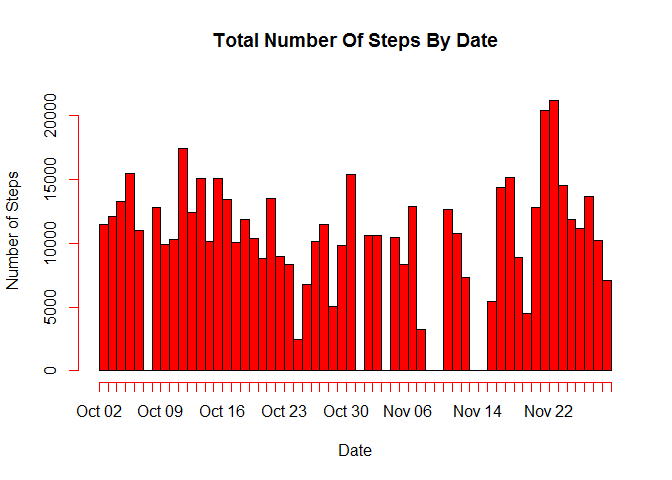
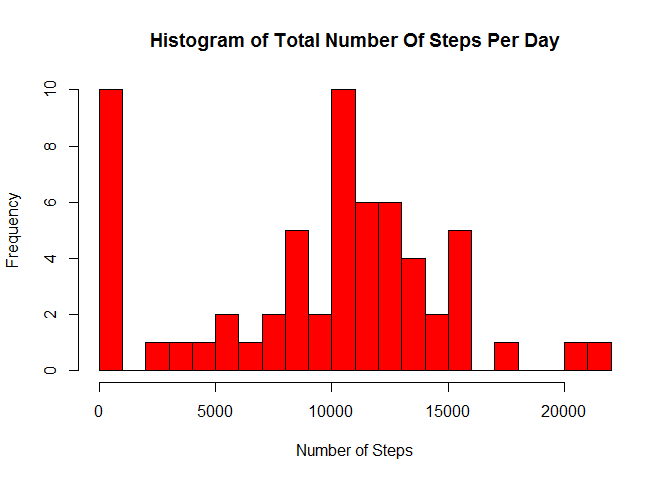
Peer Assessment #1

diff --git a/PA1_template.html b/PA1_template.html
@@ -145,16 +145,13 @@ dtStepsByDate</code></pre>
 ## 61: 2012-11-30          0
 ##           date totalSteps</code></pre>
 <p>The total steps by date data presented as a histogram:</p>
-<pre class="r"><code>yRange &lt;- c(0, 1000 * (floor(max(dtStepsByDate$totalSteps) / 1000) + 1))
-hist(x = rep(dtStepsByDate$date, dtStepsByDate$totalSteps),
-        breaks = &quot;days&quot;,
-        freq = TRUE,
+<pre class="r"><code>hist(x = dtStepsByDate$totalSteps,
         col = &quot;red&quot;,
-        ylim = yRange,
-        main = &quot;Total Number Of Steps By Date&quot;,
-        xlab = &quot;Date&quot;,
-        ylab = &quot;Number of Steps&quot;)</code></pre>
[1 lines of base64/hex data omitted]
+        breaks = 20,
+        main = &quot;Histogram of Total Number Of Steps Per Day&quot;,
+        xlab = &quot;Number of Steps&quot;,
+        ylab = &quot;Frequency&quot;)</code></pre>
[1 lines of base64/hex data omitted]
 <pre class="r"><code>meanSteps &lt;- mean(dtStepsByDate$totalSteps, na.rm = TRUE)
 medianSteps &lt;- median(dtStepsByDate$totalSteps, na.rm = TRUE)</code></pre>
 <p>The mean number of steps is 9354.2295082. The median number of steps is 1.039510^{4}.</p>
@@ -220,33 +217,34 @@ medianEstimatedSteps &lt;- median(dtEstimatedStepsByDate$totalEstimatedSteps, na
 </div>
 <div id="are-there-differences-in-activity-patterns-between-weekdays-and-weekends" class="section level2">
 <h2>Are there differences in activity patterns between weekdays and weekends?</h2>
-<p>I was not able to complete this section in time. Here is the in-process code to complete later.</p>
-<pre class="r"><code>#dtActivity &lt;- cbind(dtActivity, data.table(&quot;DayOfWeek&quot; = weekdays(dtActivity$date)))
-#dtActivity &lt;- cbind(dtActivity, data.table(&quot;TypeOfDay&quot; = character(nrow(dtActivity))))
+<p>We summarize the mean steps by type of day and interval into a new data table named dtStepsByTypeOfDayAndInterval.</p>
+<pre class="r"><code>dtActivity &lt;- cbind(dtActivity, data.table(&quot;DayOfWeek&quot; = weekdays(dtActivity$date)))
+dtActivity &lt;- cbind(dtActivity, data.table(&quot;TypeOfDay&quot; = character(nrow(dtActivity))))
 
-#for (row in 1:nrow(dtActivity))
-#{
-#   dtActivity[row]$TypeOfDay &lt;- switch(dtActivity[row]$DayOfWeek,
-#                                       Monday = &quot;Weekday&quot;,
-#                                       Tuesday = &quot;Weekday&quot;,
-#                                       Wednesday = &quot;Weekday&quot;,
-#                                       Thursday = &quot;Weekday&quot;,
-#                                       Friday = &quot;Weekday&quot;,
-#                                       Saturday = &quot;Weekend&quot;,
-#                                       Sunday = &quot;Weekend&quot;)
-#}
+for (row in 1:nrow(dtActivity))
+{
+    dtActivity[row]$TypeOfDay &lt;- switch(dtActivity[row]$DayOfWeek,
+                                        Monday = &quot;Weekday&quot;,
+                                        Tuesday = &quot;Weekday&quot;,
+                                        Wednesday = &quot;Weekday&quot;,
+                                        Thursday = &quot;Weekday&quot;,
+                                        Friday = &quot;Weekday&quot;,
+                                        Saturday = &quot;Weekend&quot;,
+                                        Sunday = &quot;Weekend&quot;)
+}
 
-#dtStepsByTypeOfDayAndInterval &lt;- dtActivity[, mean(steps, na.rm = TRUE), by = TypeOfDay]
-#setnames(dtStepsByTypeOfDayAndInterval, &quot;V1&quot;, &quot;meanSteps&quot;)
-#dtStepsByInterval
-#yRange &lt;- c(0, 20 * (floor(max(dtStepsByInterval$meanSteps) / 20) + 1))
-#plot(dtStepsByInterval,
-#       type = &quot;l&quot;,
-#       col = &quot;black&quot;,
-#       ylim = yRange,
-#       main = &quot;Mean Number Of Steps By Interval&quot;,
-#       xlab = &quot;Interval&quot;,
-#       ylab = &quot;Mean Number of Steps&quot;)</code></pre>
+dtStepsByTypeOfDayAndInterval &lt;- dtActivity[, mean(steps, na.rm = TRUE), by = c(&quot;TypeOfDay&quot;, &quot;interval&quot;)]
+setnames(dtStepsByTypeOfDayAndInterval, &quot;V1&quot;, &quot;meanSteps&quot;)</code></pre>
+<p>The mean steps by interval data presented as a time-series plot:</p>
+<pre class="r"><code>library(lattice)
+xyplot(meanSteps ~ interval | TypeOfDay,
+        data = dtStepsByTypeOfDayAndInterval,
+        type = &quot;l&quot;,
+        main = &quot;Mean Number Of Steps By Type Of Day And Interval&quot;,
+        xlab = &quot;Interval&quot;,
+        ylab = &quot;Mean Number of Steps&quot;,
+        layout = c(2, 1))</code></pre>
[1 lines of base64/hex data omitted]
 </div>
 
 

diff --git a/PA1_template.md b/PA1_template.md
@@ -102,15 +102,12 @@ The total steps by date data presented as a histogram:
 
 
 ```r
-yRange <- c(0, 1000 * (floor(max(dtStepsByDate$totalSteps) / 1000) + 1))
-hist(x = rep(dtStepsByDate$date, dtStepsByDate$totalSteps),
-		breaks = "days",
-		freq = TRUE,
+hist(x = dtStepsByDate$totalSteps,
 		col = "red",
-		ylim = yRange,
-		main = "Total Number Of Steps By Date",
-		xlab = "Date",
-		ylab = "Number of Steps")
+		breaks = 20,
+		main = "Histogram of Total Number Of Steps Per Day",
+		xlab = "Number of Steps",
+		ylab = "Frequency")
 ```
 
 ![](PA1_template_files/figure-html/summaryDateHistogram-1.png) 
@@ -239,33 +236,43 @@ The median number of steps with the missing values estimated is 1.0766189\times 
 
 ## Are there differences in activity patterns between weekdays and weekends?
 
-I was not able to complete this section in time.  Here is the in-process code to complete later.
+We summarize the mean steps by type of day and interval into a new data table
+named dtStepsByTypeOfDayAndInterval.
+
 
 ```r
-#dtActivity <- cbind(dtActivity, data.table("DayOfWeek" = weekdays(dtActivity$date)))
-#dtActivity <- cbind(dtActivity, data.table("TypeOfDay" = character(nrow(dtActivity))))
+dtActivity <- cbind(dtActivity, data.table("DayOfWeek" = weekdays(dtActivity$date)))
+dtActivity <- cbind(dtActivity, data.table("TypeOfDay" = character(nrow(dtActivity))))
 
-#for (row in 1:nrow(dtActivity))
-#{
-#	dtActivity[row]$TypeOfDay <- switch(dtActivity[row]$DayOfWeek,
-#										Monday = "Weekday",
-#										Tuesday = "Weekday",
-#										Wednesday = "Weekday",
-#										Thursday = "Weekday",
-#										Friday = "Weekday",
-#										Saturday = "Weekend",
-#										Sunday = "Weekend")
-#}
+for (row in 1:nrow(dtActivity))
+{
+	dtActivity[row]$TypeOfDay <- switch(dtActivity[row]$DayOfWeek,
+										Monday = "Weekday",
+										Tuesday = "Weekday",
+										Wednesday = "Weekday",
+										Thursday = "Weekday",
+										Friday = "Weekday",
+										Saturday = "Weekend",
+										Sunday = "Weekend")
+}
 
-#dtStepsByTypeOfDayAndInterval <- dtActivity[, mean(steps, na.rm = TRUE), by = TypeOfDay]
-#setnames(dtStepsByTypeOfDayAndInterval, "V1", "meanSteps")
-#dtStepsByInterval
-#yRange <- c(0, 20 * (floor(max(dtStepsByInterval$meanSteps) / 20) + 1))
-#plot(dtStepsByInterval,
-#		type = "l",
-#		col = "black",
-#		ylim = yRange,
-#		main = "Mean Number Of Steps By Interval",
-#		xlab = "Interval",
-#		ylab = "Mean Number of Steps")
+dtStepsByTypeOfDayAndInterval <- dtActivity[, mean(steps, na.rm = TRUE), by = c("TypeOfDay", "interval")]
+setnames(dtStepsByTypeOfDayAndInterval, "V1", "meanSteps")
 ```
+
+
+The mean steps by interval data presented as a time-series plot:
+
+
+```r
+library(lattice)
+xyplot(meanSteps ~ interval | TypeOfDay,
+		data = dtStepsByTypeOfDayAndInterval,
+		type = "l",
+		main = "Mean Number Of Steps By Type Of Day And Interval",
+		xlab = "Interval",
+		ylab = "Mean Number of Steps",
+		layout = c(2, 1))
+```
+
+![](PA1_template_files/figure-html/summaryTypeOfDayAndIntervalPlot-1.png) 
